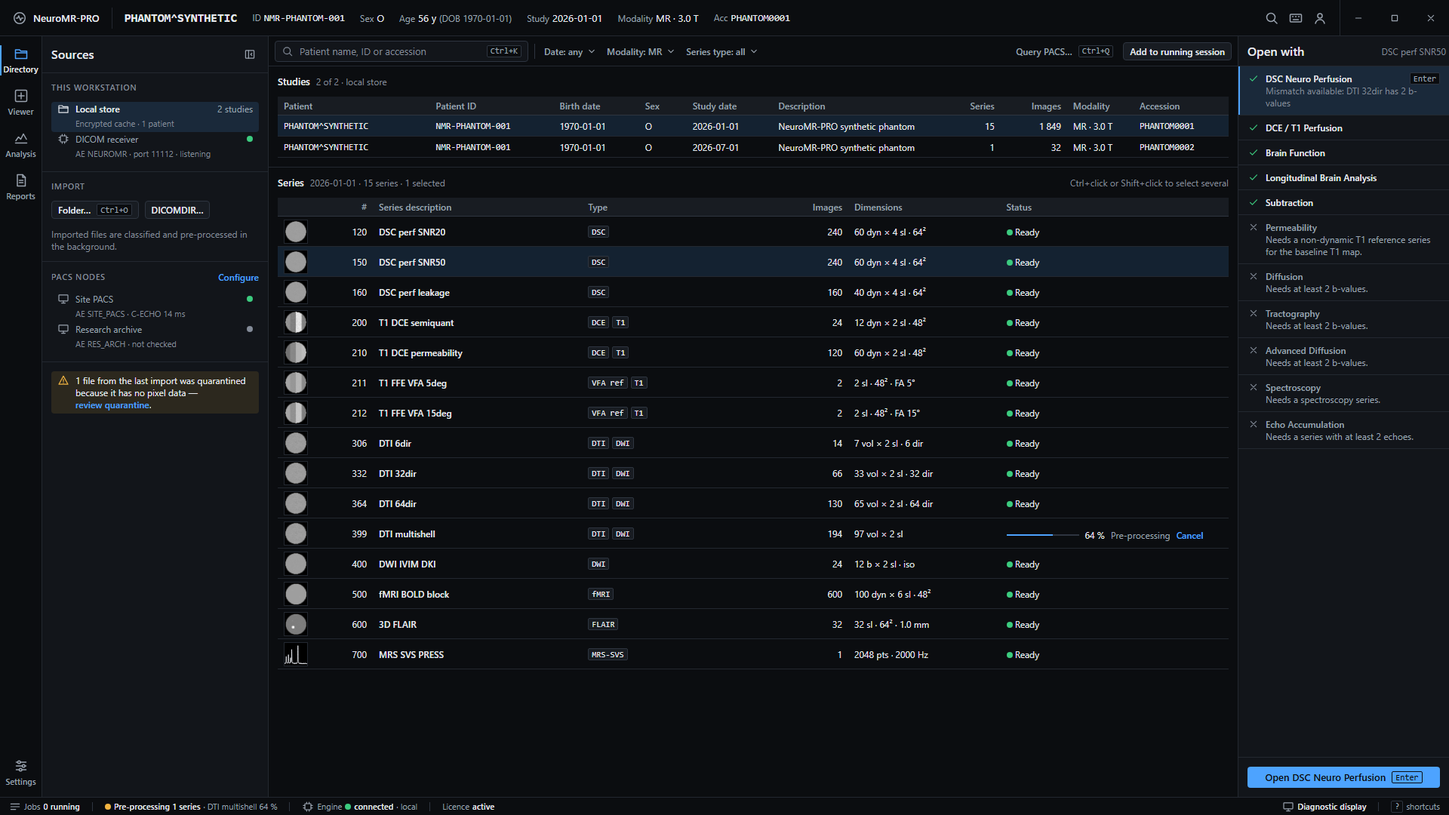
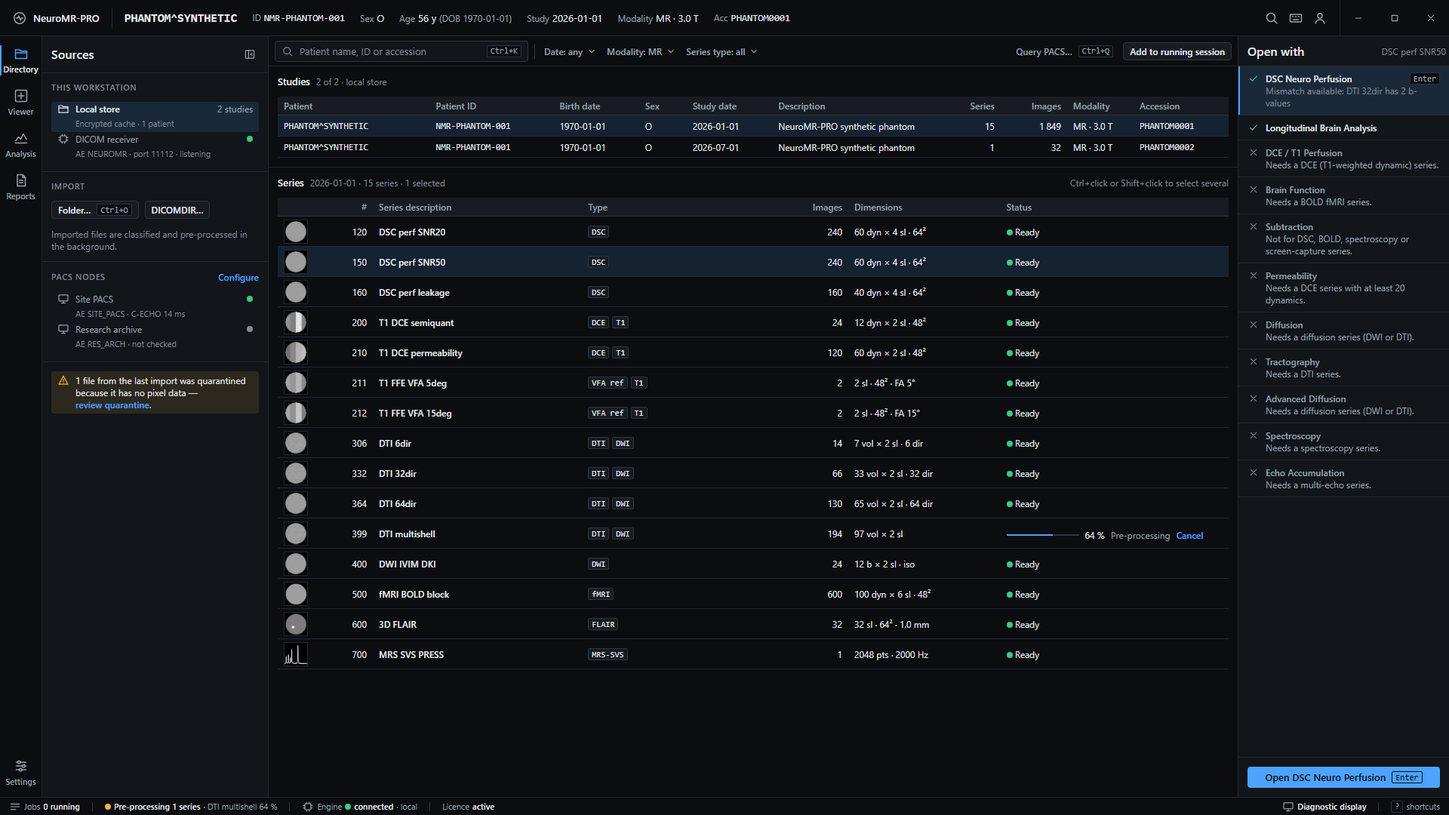
fix(workspace): launcher validity checks the DIR-003 series type
DIR-004 rules checked counts only, so a DSC series was reported valid for
DCE, Brain Function, Subtraction and Permeability. Each rule now checks the
classifier type first (DCE, DSC, DWI/DTI, DTI, FMRI, MULTI_ECHO; Subtraction
rejects DSC, FMRI, MRS and Secondary Capture) and names the missing type.
Spec table, tests, Directory launcher screen and critique updated.

Changed region(s): [[0.875, 0.1528, 0.9688, 0.6111]]

diff --git a/packages/workspace/src/validity.test.ts b/packages/workspace/src/validity.test.ts
@@ -1,5 +1,5 @@
 import { describe, expect, it } from "vitest";
-import type { SeriesSummary } from "@neuromr/contracts";
+import type { PackageId, SeriesSummary } from "@neuromr/contracts";
 import { packageValidity } from "./validity.js";
 
 const base: SeriesSummary = {
@@ -20,48 +20,91 @@ const s = (over: Partial<SeriesSummary>): SeriesSummary => ({ ...base, ...over }
 
 describe("DIR-004 package validity", () => {
   it("DIR-004 blocks until pre-processing is done (GEN-191)", () => {
-    const r = packageValidity("dsc", [s({ dynamics: 40, isDynamic: true, preprocessingDone: false })]);
+    const r = packageValidity("dsc", [s({ types: ["DSC"], dynamics: 40, isDynamic: true, preprocessingDone: false })]);
     expect(r).toEqual({ valid: false, reason: "Waiting for import and pre-processing to finish." });
   });
 
   it("SAFE-020 blocks series from different patients", () => {
-    const r = packageValidity("dsc", [s({ dynamics: 40, isDynamic: true }), s({ patientId: "P2" })]);
+    const r = packageValidity("dsc", [s({ types: ["DSC"], dynamics: 40, isDynamic: true }), s({ patientId: "P2" })]);
     expect(r.valid).toBe(false);
   });
 
-  it("DCE-001 needs at least 4 dynamics", () => {
-    expect(packageValidity("dce", [s({ dynamics: 3 })]).valid).toBe(false);
-    expect(packageValidity("dce", [s({ dynamics: 4 })]).valid).toBe(true);
+  it("DIR-004 uses the DIR-003 type: a DSC series opens only DSC, Longitudinal among single-series packages", () => {
+    const dscSeries = s({ types: ["DSC"], dynamics: 60, isDynamic: true });
+    const valid = (pkg: PackageId) => packageValidity(pkg, [dscSeries]).valid;
+    expect(valid("dsc")).toBe(true);
+    expect(valid("longitudinal")).toBe(true);
+    for (const pkg of ["dce", "permeability", "fmri", "subtraction", "diffusion", "tractography", "adv-diffusion", "echo", "spectroscopy"] as const) {
+      expect(valid(pkg), pkg).toBe(false);
+    }
+    expect(packageValidity("dce", [dscSeries])).toEqual({ valid: false, reason: "Needs a DCE (T1-weighted dynamic) series." });
+    expect(packageValidity("fmri", [dscSeries])).toEqual({ valid: false, reason: "Needs a BOLD fMRI series." });
+    expect(packageValidity("subtraction", [dscSeries])).toEqual({
+      valid: false,
+      reason: "Not for DSC, BOLD, spectroscopy or screen-capture series.",
+    });
   });
 
-  it("DSC-001 needs a dynamic series with at least 5 dynamics", () => {
-    expect(packageValidity("dsc", [s({ dynamics: 4, isDynamic: true })]).valid).toBe(false);
-    expect(packageValidity("dsc", [s({ dynamics: 5, isDynamic: true })]).valid).toBe(true);
+  it("DIR-004 a DCE or BOLD series is not valid for DSC", () => {
+    expect(packageValidity("dsc", [s({ types: ["DCE"], dynamics: 60, isDynamic: true })]).valid).toBe(false);
+    expect(packageValidity("dsc", [s({ types: ["FMRI"], dynamics: 120, isDynamic: true })]).valid).toBe(false);
   });
 
-  it("PERM-001 needs 20 dynamics and a VFA reference", () => {
-    const dceSeries = s({ dynamics: 60, isDynamic: true, flipAngleDeg: 15 });
-    const ref5 = s({ types: ["VFA_REFERENCE"], flipAngleDeg: 5 });
-    expect(packageValidity("permeability", [s({ dynamics: 19 }), ref5]).valid).toBe(false);
+  it("DCE-001 needs a DCE series with at least 4 dynamics", () => {
+    expect(packageValidity("dce", [s({ types: ["DCE"], dynamics: 3 })]).valid).toBe(false);
+    expect(packageValidity("dce", [s({ types: ["DCE"], dynamics: 4 })]).valid).toBe(true);
+    expect(packageValidity("dce", [s({ types: ["T1"], dynamics: 4 })]).valid).toBe(false);
+  });
+
+  it("DSC-001 needs a DSC series with at least 5 dynamics", () => {
+    expect(packageValidity("dsc", [s({ types: ["DSC"], dynamics: 4, isDynamic: true })]).valid).toBe(false);
+    expect(packageValidity("dsc", [s({ types: ["DSC"], dynamics: 5, isDynamic: true })]).valid).toBe(true);
+  });
+
+  it("PERM-001 needs a DCE series with 20 dynamics and a VFA reference", () => {
+    const dceSeries = s({ types: ["DCE"], dynamics: 60, isDynamic: true, flipAngleDeg: 15 });
+    const ref5 = s({ types: ["VFA_REFERENCE", "T1"], flipAngleDeg: 5 });
+    expect(packageValidity("permeability", [s({ types: ["DCE"], dynamics: 19 }), ref5]).valid).toBe(false);
     expect(packageValidity("permeability", [dceSeries]).valid).toBe(false);
     expect(packageValidity("permeability", [dceSeries, ref5]).valid).toBe(true);
+    const dscSeries = s({ types: ["DSC"], dynamics: 60, isDynamic: true, flipAngleDeg: 90 });
+    expect(packageValidity("permeability", [dscSeries, ref5])).toEqual({
+      valid: false,
+      reason: "Needs a DCE series with at least 20 dynamics.",
+    });
   });
 
   it("PERM-003 single reference must differ in flip angle", () => {
-    const dceSeries = s({ dynamics: 60, isDynamic: true, flipAngleDeg: 15 });
+    const dceSeries = s({ types: ["DCE"], dynamics: 60, isDynamic: true, flipAngleDeg: 15 });
     const ref15 = s({ types: ["VFA_REFERENCE"], flipAngleDeg: 15 });
     expect(packageValidity("permeability", [dceSeries, ref15]).valid).toBe(false);
   });
 
-  it("DIF-001 needs 2 distinct b-values; TRK-001 also needs 6 directions", () => {
-    expect(packageValidity("diffusion", [s({ bValues: [0, 0, 0] })])).toEqual({
+  it("DIF-001 needs a DWI/DTI series with 2 distinct b-values; TRK-001 needs DTI with 6 directions", () => {
+    expect(packageValidity("diffusion", [s({ types: ["DWI"], bValues: [0, 0, 0] })])).toEqual({
       valid: false,
       reason: "Needs at least 2 b-values.",
     });
-    const dwi = s({ bValues: [0, 1000], gradientDirections: 3 });
+    expect(packageValidity("diffusion", [s({ types: ["T2"], bValues: [0, 1000] })])).toEqual({
+      valid: false,
+      reason: "Needs a diffusion series (DWI or DTI).",
+    });
+    const dwi = s({ types: ["DWI"], bValues: [0, 1000], gradientDirections: 3 });
     expect(packageValidity("diffusion", [dwi]).valid).toBe(true);
-    expect(packageValidity("tractography", [dwi]).valid).toBe(false);
-    expect(packageValidity("tractography", [{ ...dwi, gradientDirections: 6 }]).valid).toBe(true);
+    expect(packageValidity("tractography", [dwi])).toEqual({ valid: false, reason: "Needs a DTI series." });
+    const dti = s({ types: ["DTI"], bValues: [0, 1000], gradientDirections: 3 });
+    expect(packageValidity("tractography", [dti]).valid).toBe(false);
+    expect(packageValidity("tractography", [{ ...dti, gradientDirections: 6 }]).valid).toBe(true);
+  });
+
+  it("ADV-001 needs a DWI or DTI series with 2 b-values", () => {
+    expect(packageValidity("adv-diffusion", [s({ types: ["DWI"], bValues: [0, 500, 1000] })]).valid).toBe(true);
+    expect(packageValidity("adv-diffusion", [s({ types: ["FLAIR"], bValues: [0, 1000] })]).valid).toBe(false);
+  });
+
+  it("FMRI-001 needs a BOLD series with at least 20 dynamics", () => {
+    expect(packageValidity("fmri", [s({ types: ["FMRI"], dynamics: 19, isDynamic: true })]).valid).toBe(false);
+    expect(packageValidity("fmri", [s({ types: ["FMRI"], dynamics: 120, isDynamic: true })]).valid).toBe(true);
   });
 
   it("MRS-001 needs an MRS series plus an imaging series", () => {
@@ -76,10 +119,17 @@ describe("DIR-004 package validity", () => {
     expect(packageValidity("longitudinal", five.slice(0, 4)).valid).toBe(true);
   });
 
-  it("ECHO-001 needs 2 echoes; SUB needs 2 dynamics or a second series", () => {
-    expect(packageValidity("echo", [s({ echoes: 1 })]).valid).toBe(false);
-    expect(packageValidity("echo", [s({ echoes: 4 })]).valid).toBe(true);
-    expect(packageValidity("subtraction", [s({ dynamics: 1 })]).valid).toBe(false);
-    expect(packageValidity("subtraction", [s({ dynamics: 1 }), s({})]).valid).toBe(true);
+  it("SUB-003 needs 2 dynamics or a second imaging series, never DSC, BOLD, MRS or SC", () => {
+    expect(packageValidity("subtraction", [s({ types: ["T1"], dynamics: 1 })]).valid).toBe(false);
+    expect(packageValidity("subtraction", [s({ types: ["T1"], dynamics: 1 }), s({ types: ["T1"] })]).valid).toBe(true);
+    expect(packageValidity("subtraction", [s({ types: ["DCE"], dynamics: 40, isDynamic: true })]).valid).toBe(true);
+    expect(packageValidity("subtraction", [s({ types: ["FMRI"], dynamics: 120, isDynamic: true })]).valid).toBe(false);
+    expect(packageValidity("subtraction", [s({ types: ["T1"] }), s({ types: ["SECONDARY_CAPTURE"] })]).valid).toBe(false);
+  });
+
+  it("ECHO-001 needs a multi-echo series with at least 2 echoes", () => {
+    expect(packageValidity("echo", [s({ types: ["MULTI_ECHO"], echoes: 1 })]).valid).toBe(false);
+    expect(packageValidity("echo", [s({ types: ["MULTI_ECHO"], echoes: 4 })]).valid).toBe(true);
+    expect(packageValidity("echo", [s({ types: ["DSC"], echoes: 2 })])).toEqual({ valid: false, reason: "Needs a multi-echo series." });
   });
 });

diff --git a/packages/workspace/src/validity.ts b/packages/workspace/src/validity.ts
@@ -1,4 +1,4 @@
-import type { PackageId, SeriesSummary } from "@neuromr/contracts";
+import type { PackageId, SeriesSummary, SeriesType } from "@neuromr/contracts";
 
 /** Result of checking whether a package can open the current selection (DIR-004). */
 export type Validity = { valid: true } | { valid: false; reason: string };
@@ -7,11 +7,18 @@ const ok: Validity = { valid: true };
 const no = (reason: string): Validity => ({ valid: false, reason });
 
 const distinctB = (s: SeriesSummary): number => new Set(s.bValues).size;
-const hasType = (s: SeriesSummary, t: SeriesSummary["types"][number]): boolean => s.types.includes(t);
+const hasType = (s: SeriesSummary, t: SeriesType): boolean => s.types.includes(t);
+const hasAnyType = (s: SeriesSummary, ts: readonly SeriesType[]): boolean => ts.some((t) => hasType(s, t));
+
+const DIFFUSION: readonly SeriesType[] = ["DWI", "DTI"];
+const MRS: readonly SeriesType[] = ["MRS_SVS", "MRS_CSI"];
+/** Series that Subtraction never accepts: time series owned by another package, spectra, and screen captures. */
+const NOT_SUBTRACTABLE: readonly SeriesType[] = ["DSC", "FMRI", "MRS_SVS", "MRS_CSI", "SECONDARY_CAPTURE"];
 
 /**
  * Decide validity for one package and a selection of series.
  * The first series is the primary input; the rest are companions (references, imaging).
+ * Each rule checks the DIR-003 series type first, then counts.
  * Messages are short, user-facing, and name the unmet condition.
  */
 export function packageValidity(pkg: PackageId, selection: readonly SeriesSummary[]): Validity {
@@ -23,12 +30,13 @@ export function packageValidity(pkg: PackageId, selection: readonly SeriesSummar
 
   switch (pkg) {
     case "dce":
-      return primary.dynamics >= 4 ? ok : no("Needs a dynamic series with at least 4 dynamics.");
+      if (!hasType(primary, "DCE")) return no("Needs a DCE (T1-weighted dynamic) series.");
+      return primary.dynamics >= 4 ? ok : no("Needs at least 4 dynamics.");
     case "dsc":
-      if (!primary.isDynamic) return no("Needs a dynamic T2*-weighted series.");
+      if (!hasType(primary, "DSC")) return no("Needs a DSC (dynamic T2*-weighted) series.");
       return primary.dynamics >= 5 ? ok : no("Needs at least 5 dynamics.");
     case "permeability": {
-      if (primary.dynamics < 20) return no("Needs a DCE series with at least 20 dynamics.");
+      if (!hasType(primary, "DCE") || primary.dynamics < 20) return no("Needs a DCE series with at least 20 dynamics.");
       const refs = others.filter((s) => hasType(s, "VFA_REFERENCE") && !s.isDynamic);
       const angles = new Set(refs.map((s) => s.flipAngleDeg).filter((a) => a !== undefined));
       if (angles.size === 0) return no("Needs a non-dynamic T1 reference series for the baseline T1 map.");
@@ -38,17 +46,19 @@ export function packageValidity(pkg: PackageId, selection: readonly SeriesSummar
       return ok;
     }
     case "diffusion":
+    case "adv-diffusion":
+      if (!hasAnyType(primary, DIFFUSION)) return no("Needs a diffusion series (DWI or DTI).");
       return distinctB(primary) >= 2 ? ok : no("Needs at least 2 b-values.");
     case "tractography":
+      if (!hasType(primary, "DTI")) return no("Needs a DTI series.");
       if (distinctB(primary) < 2) return no("Needs at least 2 b-values.");
       return primary.gradientDirections >= 6 ? ok : no("Needs at least 6 diffusion directions.");
     case "fmri":
-      if (!primary.isDynamic) return no("Needs a dynamic BOLD series.");
+      if (!hasType(primary, "FMRI")) return no("Needs a BOLD fMRI series.");
       return primary.dynamics >= 20 ? ok : no("Needs at least 20 dynamics (80 or more recommended).");
     case "spectroscopy": {
-      const isMrs = hasType(primary, "MRS_SVS") || hasType(primary, "MRS_CSI");
-      if (!isMrs) return no("Needs a spectroscopy series.");
-      return others.some((s) => s.hasGeometry && !hasType(s, "MRS_SVS") && !hasType(s, "MRS_CSI"))
+      if (!hasAnyType(primary, MRS)) return no("Needs a spectroscopy series.");
+      return others.some((s) => s.hasGeometry && !hasAnyType(s, MRS))
         ? ok
         : no("Also select an imaging series for reference.");
     }
@@ -56,12 +66,14 @@ export function packageValidity(pkg: PackageId, selection: readonly SeriesSummar
       const studies = new Set(selection.map((s) => s.studyInstanceUid));
       return studies.size <= 4 ? ok : no("Select at most 4 studies.");
     }
-    case "adv-diffusion":
-      return distinctB(primary) >= 2 ? ok : no("Needs at least 2 b-values.");
     case "subtraction":
+      if (hasAnyType(primary, NOT_SUBTRACTABLE) || others.some((s) => hasAnyType(s, NOT_SUBTRACTABLE))) {
+        return no("Not for DSC, BOLD, spectroscopy or screen-capture series.");
+      }
       if (primary.dynamics >= 2) return ok;
       return others.length >= 1 ? ok : no("Needs at least 2 dynamics or a second series.");
     case "echo":
-      return primary.echoes >= 2 ? ok : no("Needs a series with at least 2 echoes.");
+      if (!hasType(primary, "MULTI_ECHO")) return no("Needs a multi-echo series.");
+      return primary.echoes >= 2 ? ok : no("Needs at least 2 echoes.");
   }
 }

diff --git a/design/screens/01-study-directory.html b/design/screens/01-study-directory.html
@@ -210,16 +210,16 @@
     <div class="panel__body">
       <div class="lx" role="listbox" aria-label="Packages">
         <div class="lx__item is-valid is-selected" role="option" aria-selected="true"><svg class="ic"><use href="#i-check"/></svg><span class="lx__name">DSC Neuro Perfusion</span><span class="kbd">Enter</span><span class="lx__sub">Mismatch available: DTI 32dir has 2 b-values</span></div>
-        <div class="lx__item is-valid" role="option"><svg class="ic"><use href="#i-check"/></svg><span class="lx__name">DCE / T1 Perfusion</span><span></span></div>
-        <div class="lx__item is-valid" role="option"><svg class="ic"><use href="#i-check"/></svg><span class="lx__name">Brain Function</span><span></span></div>
         <div class="lx__item is-valid" role="option"><svg class="ic"><use href="#i-check"/></svg><span class="lx__name">Longitudinal Brain Analysis</span><span></span></div>
-        <div class="lx__item is-valid" role="option"><svg class="ic"><use href="#i-check"/></svg><span class="lx__name">Subtraction</span><span></span></div>
-        <div class="lx__item is-invalid" role="option" aria-disabled="true"><svg class="ic"><use href="#i-close"/></svg><span class="lx__name">Permeability</span><span></span><span class="lx__why">Needs a non-dynamic T1 reference series for the baseline T1 map.</span></div>
-        <div class="lx__item is-invalid" role="option" aria-disabled="true"><svg class="ic"><use href="#i-close"/></svg><span class="lx__name">Diffusion</span><span></span><span class="lx__why">Needs at least 2 b-values.</span></div>
-        <div class="lx__item is-invalid" role="option" aria-disabled="true"><svg class="ic"><use href="#i-close"/></svg><span class="lx__name">Tractography</span><span></span><span class="lx__why">Needs at least 2 b-values.</span></div>
-        <div class="lx__item is-invalid" role="option" aria-disabled="true"><svg class="ic"><use href="#i-close"/></svg><span class="lx__name">Advanced Diffusion</span><span></span><span class="lx__why">Needs at least 2 b-values.</span></div>
+        <div class="lx__item is-invalid" role="option" aria-disabled="true"><svg class="ic"><use href="#i-close"/></svg><span class="lx__name">DCE / T1 Perfusion</span><span></span><span class="lx__why">Needs a DCE (T1-weighted dynamic) series.</span></div>
+        <div class="lx__item is-invalid" role="option" aria-disabled="true"><svg class="ic"><use href="#i-close"/></svg><span class="lx__name">Brain Function</span><span></span><span class="lx__why">Needs a BOLD fMRI series.</span></div>
+        <div class="lx__item is-invalid" role="option" aria-disabled="true"><svg class="ic"><use href="#i-close"/></svg><span class="lx__name">Subtraction</span><span></span><span class="lx__why">Not for DSC, BOLD, spectroscopy or screen-capture series.</span></div>
+        <div class="lx__item is-invalid" role="option" aria-disabled="true"><svg class="ic"><use href="#i-close"/></svg><span class="lx__name">Permeability</span><span></span><span class="lx__why">Needs a DCE series with at least 20 dynamics.</span></div>
+        <div class="lx__item is-invalid" role="option" aria-disabled="true"><svg class="ic"><use href="#i-close"/></svg><span class="lx__name">Diffusion</span><span></span><span class="lx__why">Needs a diffusion series (DWI or DTI).</span></div>
+        <div class="lx__item is-invalid" role="option" aria-disabled="true"><svg class="ic"><use href="#i-close"/></svg><span class="lx__name">Tractography</span><span></span><span class="lx__why">Needs a DTI series.</span></div>
+        <div class="lx__item is-invalid" role="option" aria-disabled="true"><svg class="ic"><use href="#i-close"/></svg><span class="lx__name">Advanced Diffusion</span><span></span><span class="lx__why">Needs a diffusion series (DWI or DTI).</span></div>
         <div class="lx__item is-invalid" role="option" aria-disabled="true"><svg class="ic"><use href="#i-close"/></svg><span class="lx__name">Spectroscopy</span><span></span><span class="lx__why">Needs a spectroscopy series.</span></div>
-        <div class="lx__item is-invalid" role="option" aria-disabled="true"><svg class="ic"><use href="#i-close"/></svg><span class="lx__name">Echo Accumulation</span><span></span><span class="lx__why">Needs a series with at least 2 echoes.</span></div>
+        <div class="lx__item is-invalid" role="option" aria-disabled="true"><svg class="ic"><use href="#i-close"/></svg><span class="lx__name">Echo Accumulation</span><span></span><span class="lx__why">Needs a multi-echo series.</span></div>
       </div>
     </div>
     <div class="panel__foot">

diff --git a/docs/spec/FUNCTIONAL_SPEC.md b/docs/spec/FUNCTIONAL_SPEC.md
@@ -168,22 +168,22 @@ Out of scope: cardiac, cartilage, liver, breast, prostate and muscle workflows. 
 - **DIR-001** Sources: local folder or DICOMDIR import, configured PACS nodes, and the local store (including studies pushed to the built-in C-STORE SCP).
 - **DIR-002** Study list → series list with thumbnails, series description, number of images, and series-type badges.
 - **DIR-003** Series-type classifier assigns one or more types from DICOM attributes: DSC, DCE, DWI, DTI, fMRI (BOLD), MRS-SVS, MRS-CSI, FLAIR, T1, T2, SWI, multi-echo, VFA reference (T1 gradient echo, non-dynamic, flip angle recorded), derived map, Secondary Capture.
-- **DIR-004** The analysis launcher lists every package with valid/invalid status for the current selection. Invalid packages show a one-line reason. Validity rules:
+- **DIR-004** The analysis launcher lists every package with valid/invalid status for the current selection. Invalid packages show a one-line reason. Each rule first checks the DIR-003 series type of the primary (first selected) series, then its counts; a series without the required type is invalid with a reason that names the type it needs. Validity rules:
 
 | Package | Rule |
 |---|---|
-| DCE / T1 Perfusion | dynamic series with ≥ 4 dynamics |
-| DSC Neuro Perfusion | dynamic T2*-sensitive series with ≥ 5 dynamics |
-| Mismatch (inside DSC) | DSC package open and a diffusion series in the study with ≥ 2 b-values (or ADC maps) |
+| DCE / T1 Perfusion | DCE series (T1-weighted dynamic) with ≥ 4 dynamics |
+| DSC Neuro Perfusion | DSC series (dynamic T2*-weighted) with ≥ 5 dynamics |
+| Mismatch (inside DSC) | DSC package open and a DWI or DTI series in the study with ≥ 2 b-values (or ADC maps) |
 | Permeability | DCE series with ≥ 20 dynamics, plus ≥ 1 non-dynamic VFA reference series with a different flip angle (2 recommended) |
-| Diffusion | DWI with ≥ 2 b-values; FA and directional maps need ≥ 6 gradient directions plus b = 0 |
-| Tractography | DTI with ≥ 6 directions and ≥ 2 b-values |
-| Brain Function | dynamic BOLD series (≥ 20 dynamics required, ≥ 80 recommended) |
+| Diffusion | DWI or DTI series with ≥ 2 b-values; FA and directional maps need ≥ 6 gradient directions plus b = 0 |
+| Tractography | DTI series with ≥ 6 directions and ≥ 2 b-values |
+| Brain Function | FMRI (BOLD) series (≥ 20 dynamics required, ≥ 80 recommended) |
 | Spectroscopy | an MRS series (SVS or CSI) **and** an imaging series selected together |
 | Longitudinal | 1–4 MR studies of the same patient |
-| Advanced Diffusion | isotropic DWI with ≥ 2 b-values (model list filtered per ADV-010) |
-| Subtraction | any series with ≥ 2 dynamics, or two series with matching geometry |
-| Echo Accumulation | series with ≥ 2 echoes |
+| Advanced Diffusion | isotropic DWI or DTI series with ≥ 2 b-values (model list filtered per ADV-010) |
+| Subtraction | an imaging series with ≥ 2 dynamics, or two imaging series with matching geometry. DSC and FMRI time series are not valid (they open in their own packages), nor are MRS series or Secondary Captures (no measured pixel values) |
+| Echo Accumulation | multi-echo series with ≥ 2 echoes |
 
 - **DIR-005** Background pre-processing progress per series is visible in the Directory (DIR-003 classification, and rules from the brief §12.6).
 - **DIR-006** Corrupt or unreadable DICOM is quarantined with a message naming the file and the reason; it never blocks the rest of the import.

diff --git a/design/CRITIQUE.md b/design/CRITIQUE.md
@@ -35,7 +35,7 @@ Fixes made during critique
 
 Notes
 - **01 Directory.** Launcher reasons are copied verbatim from `packages/workspace/src/validity.ts` for the selection "DSC perf SNR50", so design and code agree. Pre-processing (DIR-005) shows inline progress with Cancel, and the gate keeps a series unavailable until it finishes. The quarantine notice (DIR-006) names the cause and links to the list. Series rows use the phantom's real series numbers, image counts and geometry.
-- **Finding (spec/code, not design):** the current rules mark DCE / T1 Perfusion, Brain Function and Subtraction valid for a DSC series, because `validity.ts` checks dynamics only, not contrast or series type. DIR-003 already classifies series types; DIR-004 should use them (T1-weighted for DCE, BOLD for Brain Function). The screen shows today's rule outcome, unchanged. Raised as an open issue for Diyar.
+- **Finding (spec/code, not design):** the current rules mark DCE / T1 Perfusion, Brain Function and Subtraction valid for a DSC series, because `validity.ts` checks dynamics only, not contrast or series type. DIR-003 already classifies series types; DIR-004 should use them (T1-weighted for DCE, BOLD for Brain Function). The screen shows today's rule outcome, unchanged. Raised as an open issue for Diyar. **Resolved 2026-11-22:** DIR-004 now checks the DIR-003 type first; for the DSC selection, DCE, Brain Function and Subtraction show their type reasons.
 - **07 DCE.** Table values are computed from the phantom ROI curves by `inject_plots.py`, using a bilinear fit with a least-squares knee (DCE-006). MAXRELENH reads 144 / 101 / 84 % against truth 150 / 100 / 80 %, and the fitted lines are drawn for ROI1. ROI outlines now carry a 1 px black halo so they stay visible on colour maps (all screens).
 - **08 Permeability.** The injection preset uses the phantom's values (r₁ 4.5 s⁻¹·mM⁻¹, 0.1 mmol/kg, medium, Hct 45 %; blood T1 1613 ms at 3.0 T, PERM-007). The example preset is flagged as an example (PERM-006). Ktrans/kep/ve/vp are the Tofts phantom's ground-truth classes, because the fit arrives in Phase 5. Task guidance follows the new PERM-012.
 - **09 Diffusion.** The default layout is source | maps (DIF-002), so the 2×2 skeleton applies inside the map viewport (law 2 ~). ADC, eADC and DWI-iso are listed as computed on Generate, with no live preview (DIF-006). The FA-direction legend colours come from the new `FA_DIRECTION_PALETTE` in `packages/viewer/src/luts`. Task guidance follows the new DIF-012.

diff --git a/docs/dhf/TRACEABILITY.md b/docs/dhf/TRACEABILITY.md
@@ -69,7 +69,7 @@ Generated by `scripts/trace.py`; do not edit by hand.
 | GEN-200 | 2 | — |
 | DIR-001 | 2 | — |
 | DIR-002 | 2 | — |
-| DIR-003 | 2 | — |
+| DIR-003 | 2 | packages/workspace/src/validity.test.ts |
 | DIR-004 | 2 | packages/workspace/src/validity.test.ts |
 | DIR-005 | 2 | — |
 | DIR-006 | 2 | — |
@@ -157,7 +157,7 @@ Generated by `scripts/trace.py`; do not edit by hand.
 | TRK-013 | 6 | — |
 | TRK-014 | 6 | — |
 | TRK-015 | 6 | — |
-| FMRI-001 | 7 | — |
+| FMRI-001 | 7 | packages/workspace/src/validity.test.ts |
 | FMRI-002 | 7 | — |
 | FMRI-003 | 7 | — |
 | FMRI-004 | 7 | — |
@@ -213,7 +213,7 @@ Generated by `scripts/trace.py`; do not edit by hand.
 | LBA-041 | 9 | — |
 | LBA-042 | 9 | — |
 | LBA-043 | 9 | — |
-| ADV-001 | 10 | — |
+| ADV-001 | 10 | packages/workspace/src/validity.test.ts |
 | ADV-002 | 10 | — |
 | ADV-003 | 10 | — |
 | ADV-004 | 10 | — |
@@ -225,7 +225,7 @@ Generated by `scripts/trace.py`; do not edit by hand.
 | ADV-012 | 10 | — |
 | SUB-001 | 10 | — |
 | SUB-002 | 10 | — |
-| SUB-003 | 10 | — |
+| SUB-003 | 10 | packages/workspace/src/validity.test.ts |
 | SUB-004 | 10 | — |
 | SUB-005 | 10 | — |
 | SUB-006 | 10 | — |
@@ -246,4 +246,4 @@ Generated by `scripts/trace.py`; do not edit by hand.
 | SAFE-070 | 2 | — |
 | SAFE-080 | 2 | — |
 
-Coverage: 14 of 241 requirements referenced by at least one test.
+Coverage: 18 of 241 requirements referenced by at least one test.

diff --git a/CLAUDE.md b/CLAUDE.md
@@ -68,7 +68,6 @@ CI: `.github/workflows/ci.yml` (node, engine, traceability with `CURRENT_PHASE`,
 - `apps/desktop` (Electron) is created in Phase 2a.
 - Open Design MCP is not reachable from cloud sessions; it also disconnected locally during batch 6 (files are still synced by copying into the project folder).
 - No SWI/EPI or multi-echo phantom: FLAIR* is shown disabled and Echo Accumulation uses design-only decayed FLAIR imagery. Add both phantoms to `scripts/make_phantoms.py` before Phases 9–10.
-- DIR-004 rules in `packages/workspace/src/validity.ts` check dynamics only, so a DSC series is reported valid for DCE, Brain Function and Subtraction; the rules should use DIR-003 series types. Awaiting Diyar's decision (found in Phase 1 batch 3).
 - Local tooling: `uv` is not on PATH on Diyar's PC; the system Python 3.14 (`/c/Python314/python`) has numpy/scipy/pydicom/Pillow and runs `design/tools/*.py`. Run `inject_plots.py` after editing any screen with `gen:` regions, then `pnpm design:render <filter>`, then copy changed files into the Open Design project folder.
 
 **Exact next step:** Wait for Diyar's review. Apply any requested changes through the same design path (screens → inject_plots → render → critique → commit). On "design approved": mark the design locked here and start Phase 2.
